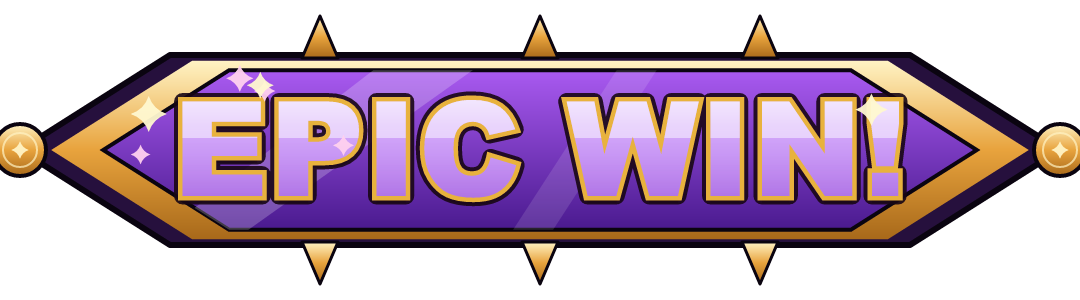
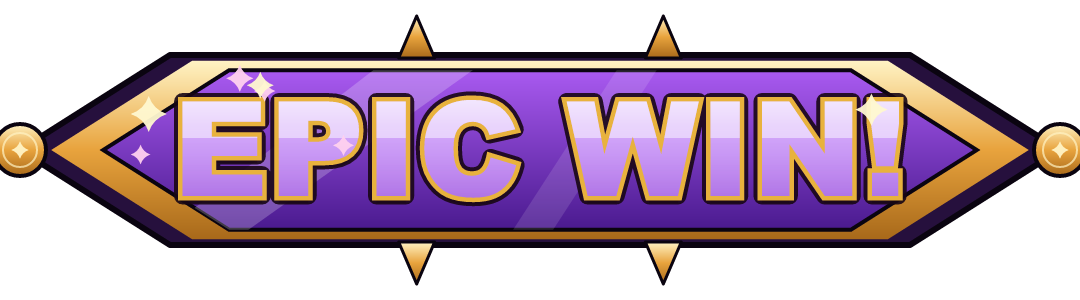
feat(WildParty): 橫幅再放大+報獎等級差異拉開成真正的5階漸層
之前的等級差異其實是二分的(big/super/mega長得一樣,epic/max才有
皇冠+跑馬燈),難怪感覺不明顯。這次改成:
- 橫幅整體再放大(1.35->1.45,累計約+7.5%)
- 皇冠尖角改成依等級遞增數量:big/super=0, mega=1, epic=2, max=3
- 跑馬燈燈泡從mega就開始出現,只是數量少/速度慢,epic/max逐步加密
  加快,不再是epic/max才有的開關式差異
- TIER_INTENSITY全距拉大(0.8~2.0,原本1.0~1.7),big調低讓兩端差距
  更明顯
- 停留時間依等級遞增(1000ms~2200ms),等級越高在畫面上停越久
- epic/max額外加一次延遲的二次閃光(double impact),不只是同一種
  效果調大力度

diff --git a/apps/WildParty/src/components/Win.svelte b/apps/WildParty/src/components/Win.svelte
@@ -33,15 +33,32 @@
 	let onCountUpComplete = $state(() => {});
 
 	// escalating "how big does this FEEL" multiplier — same shake/flash/BigWinFx
-	// logic for every big-win tier, just scaled up as the tier climbs
+	// logic for every big-win tier, just scaled up as the tier climbs. Widened
+	// range (0.8 -> 1.9) plus toning big DOWN below the old baseline of 1, so
+	// the low and high ends read as clearly different, not just +70%.
 	const TIER_INTENSITY: Partial<Record<WinLevelData['alias'], number>> = {
-		big: 1,
-		superwin: 1.15,
+		big: 0.8,
+		superwin: 1.0,
 		mega: 1.3,
-		epic: 1.5,
-		max: 1.7,
+		epic: 1.6,
+		max: 2.0,
 	};
-	const MARQUEE_TIERS: Partial<Record<WinLevelData['alias'], true>> = { epic: true, max: true };
+	// marquee now starts at mega (not just epic/max) so there's a 3-step ramp
+	// (sparse/slow -> denser/faster) instead of a hard on/off split
+	const MARQUEE_TIERS: Partial<Record<WinLevelData['alias'], { count: number; speed: number }>> = {
+		mega: { count: 14, speed: 0.7 },
+		epic: { count: 20, speed: 1 },
+		max: { count: 26, speed: 1.3 },
+	};
+	// higher tiers linger noticeably longer on screen — an easy-to-perceive
+	// difference that doesn't rely on subtle particle/shake magnitude changes
+	const LINGER_MS: Partial<Record<WinLevelData['alias'], number>> = {
+		big: 1000,
+		superwin: 1200,
+		mega: 1500,
+		epic: 1850,
+		max: 2200,
+	};
 
 	// camera shake as the big-win presentation slams in
 	let shake = $state({ x: 0, y: 0 });
@@ -62,7 +79,7 @@
 	// hit-stop impact frame: white flash + scale punch on the slam-in
 	let flash = $state(0);
 	let punch = $state(1);
-	const startImpact = (intensity: number) => {
+	const startImpact = (intensity: number, echo: boolean) => {
 		const start = Date.now();
 		const id = setInterval(() => {
 			const p = (Date.now() - start) / 280;
@@ -70,10 +87,26 @@
 				flash = 0;
 				punch = 1;
 				clearInterval(id);
+				// epic/max get a second, smaller flash beat ~90ms later — a
+				// distinct "double impact" feel, not just a bigger single flash
+				if (echo) setTimeout(() => startEchoFlash(intensity), 90);
 				return;
 			}
 			flash = Math.max(0, 0.8 * intensity * (1 - p * 1.4));
 			punch = 1 + 0.14 * intensity * (1 - p) ** 2;
+		}, 16);
+	};
+
+	const startEchoFlash = (intensity: number) => {
+		const start = Date.now();
+		const id = setInterval(() => {
+			const p = (Date.now() - start) / 180;
+			if (p >= 1) {
+				flash = 0;
+				clearInterval(id);
+				return;
+			}
+			flash = Math.max(0, 0.5 * intensity * (1 - p * 1.6));
 		}, 16);
 	};
 
@@ -93,9 +126,10 @@
 			amount = emitterEvent.amount;
 			winLevelData = emitterEvent.winLevelData;
 			if (emitterEvent.winLevelData.type === 'big') {
-				const intensity = TIER_INTENSITY[emitterEvent.winLevelData.alias] ?? 1;
+				const alias = emitterEvent.winLevelData.alias;
+				const intensity = TIER_INTENSITY[alias] ?? 1;
 				startShake(intensity);
-				startImpact(intensity);
+				startImpact(intensity, alias === 'epic' || alias === 'max');
 			}
 			await waitForResolve((resolve) => (oncomplete = resolve));
 		},
@@ -118,8 +152,9 @@
 						// the numbers start rolling
 						if (isBigWin) await waitForTimeout(90);
 						await startCountUp();
-						// Big-win presentations linger an extra second after the count-up
-						await waitForTimeout(isBigWin ? 1300 : 300);
+						// higher tiers linger longer after the count-up finishes — an
+						// easy-to-perceive escalation on top of the shake/flash/fx scaling
+						await waitForTimeout(isBigWin ? (LINGER_MS[winLevelData.alias] ?? 1300) : 300);
 						oncomplete();
 					}}
 				/>
@@ -142,13 +177,16 @@
 						scale={punch}
 					>
 						{@const winLevelSymbolKey = WIN_LEVEL_SYMBOL_MAP[winLevelData.alias]}
+						{@const marquee = MARQUEE_TIERS[winLevelData.alias]}
 						{#snippet bannerFxSnippet()}
-							<BannerMarquee />
+							{#if marquee}
+								<BannerMarquee dotCount={marquee.count} speed={marquee.speed} />
+							{/if}
 						{/snippet}
 						{#if winLevelData?.animation}
 							<WinAnimation
 								animationMap={winLevelData.animation}
-								bannerFx={MARQUEE_TIERS[winLevelData.alias] ? bannerFxSnippet : undefined}
+								bannerFx={marquee ? bannerFxSnippet : undefined}
 							>
 								{#if winLevelSymbolKey}
 									<!-- slot children are provider-scaled ×0.5, so -640 puts the icon

diff --git a/apps/WildParty/src/components/BannerMarquee.svelte b/apps/WildParty/src/components/BannerMarquee.svelte
@@ -2,12 +2,14 @@
 	import { onMount } from 'svelte';
 	import { Container, Sprite } from 'pixi-svelte';
 
-	type Props = { scale?: number };
+	type Props = { scale?: number; dotCount?: number; speed?: number };
 	const props: Props = $props();
 	// 2x compensates the ~0.5x scale that content injected via SpineSlot
 	// (addSlotObject) renders at compared to the skeleton's own attachments —
 	// same empirical pattern as WinLevelSymbolIntro.svelte's base scale.
 	const s = $derived(props.scale ?? 2.0);
+	const dotCount = $derived(props.dotCount ?? 20);
+	const speed = $derived(props.speed ?? 1);
 
 	// outer gem hex offsets from center, matching HEX_PTS in
 	// design/generate_presentation.mjs banner()
@@ -20,7 +22,6 @@
 		[-370, 95],
 	];
 
-	const DOT_COUNT = 20;
 	const points = $derived.by(() => {
 		const edges = HEX.map((p, i) => {
 			const next = HEX[(i + 1) % HEX.length];
@@ -28,8 +29,8 @@
 		});
 		const total = edges.reduce((sum, e) => sum + e.len, 0);
 		const pts: { x: number; y: number }[] = [];
-		for (let i = 0; i < DOT_COUNT; i++) {
-			let d = (i / DOT_COUNT) * total;
+		for (let i = 0; i < dotCount; i++) {
+			let d = (i / dotCount) * total;
 			for (const e of edges) {
 				if (d <= e.len) {
 					const t = e.len === 0 ? 0 : d / e.len;
@@ -48,7 +49,7 @@
 	let phase = $state(0);
 	onMount(() => {
 		const id = setInterval(() => {
-			phase += 0.045;
+			phase += 0.045 * speed;
 		}, 16);
 		return () => clearInterval(id);
 	});
